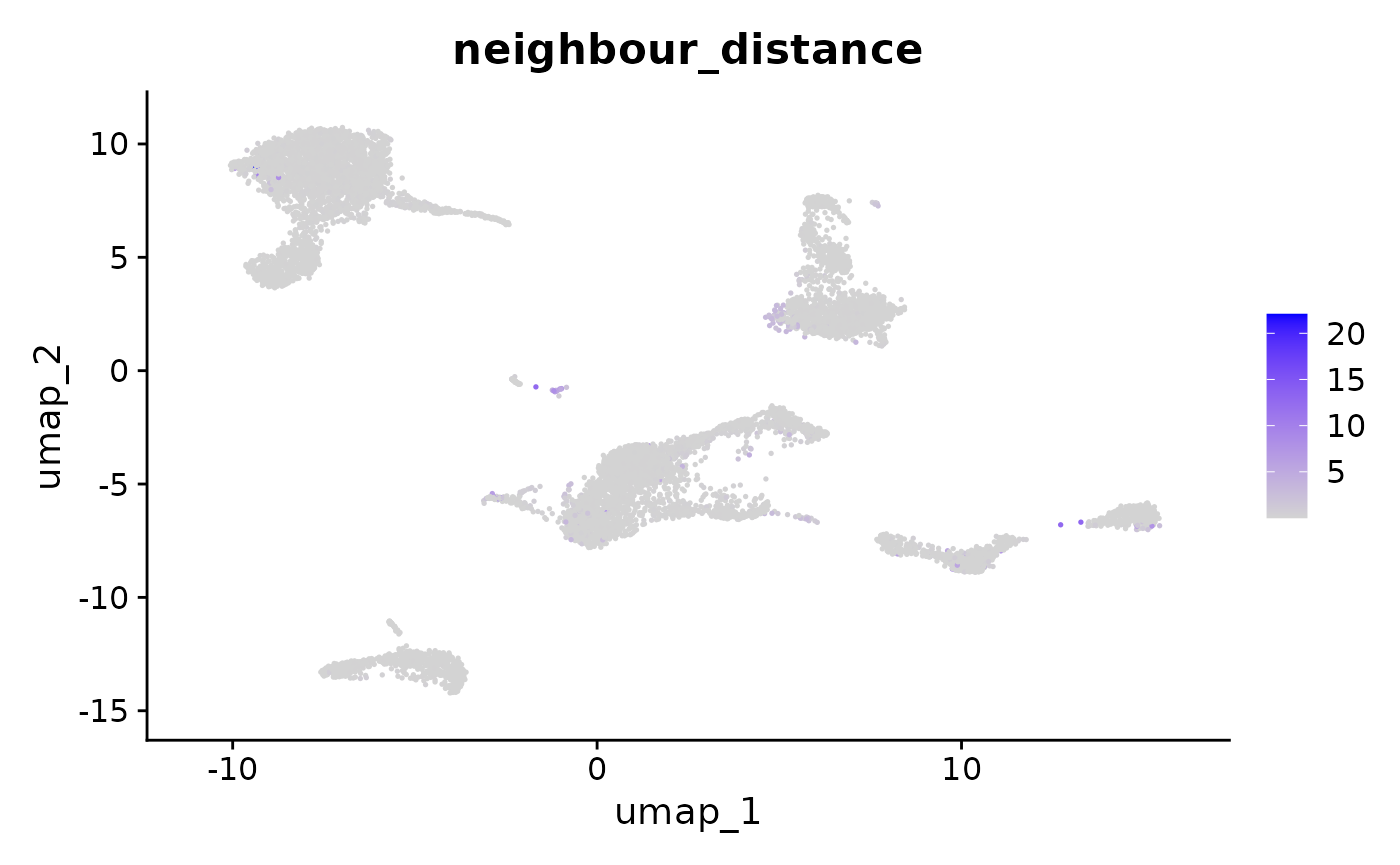
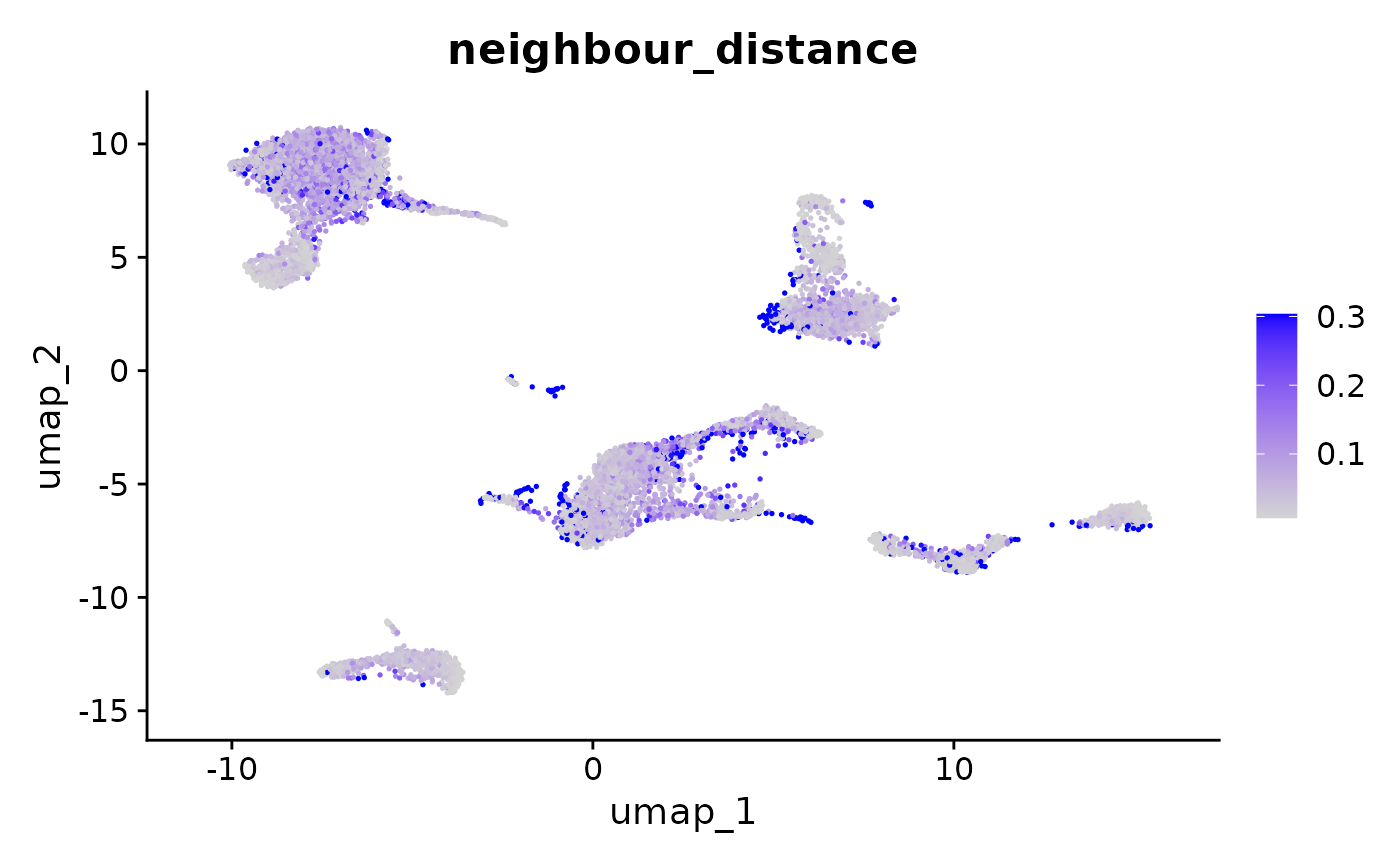
Deploying to gh-pages from @ LachlanD/SCneighbours2@b5b6f24c79d0f0ecf13e13d5ee4276910fcef369 🚀

diff --git a/articles/Tutorial.html b/articles/Tutorial.html
@@ -127,42 +127,7 @@ reduction.</p>
 <span><span class="co">#&gt; Finding variable features for layer counts.pbmc3k</span></span>
 <span><span class="va">seu</span> <span class="op">&lt;-</span> <span class="fu"><a href="https://satijalab.org/seurat/reference/ScaleData.html" class="external-link">ScaleData</a></span><span class="op">(</span><span class="va">seu</span><span class="op">)</span></span>
 <span><span class="co">#&gt; Centering and scaling data matrix</span></span>
-<span><span class="va">seu</span> <span class="op">&lt;-</span> <span class="fu"><a href="https://satijalab.org/seurat/reference/RunPCA.html" class="external-link">RunPCA</a></span><span class="op">(</span><span class="va">seu</span><span class="op">)</span></span>
-<span><span class="co">#&gt; PC_ 1 </span></span>
-<span><span class="co">#&gt; Positive:  FCER1G, TYROBP, FTL, TIMP1, TYMP, C15orf48, LGALS3, ANXA5, SOD2, LGALS1 </span></span>
-<span><span class="co">#&gt;     NPC2, PSAP, SPI1, PLAUR, CST3, S100A11, ANXA2, CD63, IL8, FTH1 </span></span>
-<span><span class="co">#&gt;     CTSB, KYNU, CD14, S100A8, SAT1, S100A10, GPX1, HLA-DRA, CFP, S100A6 </span></span>
-<span><span class="co">#&gt; Negative:  LTB, GIMAP7, CCR7, IL32, CD2, SELL, TSC22D3, TRAT1, GIMAP5, STK17A </span></span>
-<span><span class="co">#&gt;     CD247, ITM2A, CD69, CD27, CCL5, GIMAP4, C12orf57, S1PR4, CTSW, ISG20 </span></span>
-<span><span class="co">#&gt;     PASK, SNHG8, ACAP1, PPA1, CD8B, BIRC3, CREM, NKG7, AQP3, CD8A </span></span>
-<span><span class="co">#&gt; PC_ 2 </span></span>
-<span><span class="co">#&gt; Positive:  FTH1, C15orf48, IL8, CREM, LMNA, GPR183, CCR7, PLA2G7, CCL2, MARCKSL1 </span></span>
-<span><span class="co">#&gt;     CTSL, CXCL3, PHLDA1, THBS1, IER3, KYNU, CYP1B1, MGST1, ANXA1, TXN </span></span>
-<span><span class="co">#&gt;     CXCL2, BIRC3, SOD2, HSPA5, PPIF, INSIG1, ANXA5, CD63, SERPINB2, EIF5 </span></span>
-<span><span class="co">#&gt; Negative:  FOS, LY6E, IFITM2, ITGB2, DUSP1, LGALS2, HLA-DRB5, PYCARD, AIF1, LST1 </span></span>
-<span><span class="co">#&gt;     CDA, MT2A, FAM26F, IFITM3, CEBPD, IFI6, CTSS, COTL1, S100A4, LINC00936 </span></span>
-<span><span class="co">#&gt;     PLAC8, TNFSF10, TNFSF13B, LYZ, CST3, SERPINA1, CFD, MS4A6A, JUN, ISG15 </span></span>
-<span><span class="co">#&gt; PC_ 3 </span></span>
-<span><span class="co">#&gt; Positive:  HLA-DQA1, HLA-DQB1, CD79A, HLA-DPA1, CD74, HLA-DRA, HLA-DRB1, HLA-DPB1, MS4A1, CD83 </span></span>
-<span><span class="co">#&gt;     HLA-DMA, HERPUD1, MIR155HG, SYNGR2, IRF8, CD79B, TCL1A, HLA-DMB, REL, HLA-DQA2 </span></span>
-<span><span class="co">#&gt;     LINC00926, BLNK, SPIB, HVCN1, HSP90AB1, HLA-DRB5, NME1, FABP5, ID3, EBI3 </span></span>
-<span><span class="co">#&gt; Negative:  NKG7, CCL5, GZMA, CTSW, GNLY, PRF1, IL32, FGFBP2, ANXA1, GIMAP7 </span></span>
-<span><span class="co">#&gt;     GZMH, TMSB4X, GZMB, CD247, S100A4, CD2, S100A6, KLRD1, CST7, SPON2 </span></span>
-<span><span class="co">#&gt;     CLIC3, GIMAP4, GIMAP5, HOPX, S100A8, XCL2, KLRG1, PRSS23, CD8A, S100A9 </span></span>
-<span><span class="co">#&gt; PC_ 4 </span></span>
-<span><span class="co">#&gt; Positive:  LTB, LGALS2, S100A9, S100A8, FOS, SELL, RBP7, CDA, AIF1, FCN1 </span></span>
-<span><span class="co">#&gt;     FOLR3, MS4A6A, LINC00936, LYZ, TSC22D3, TCL1A, CD79A, LST1, LINC00926, CD27 </span></span>
-<span><span class="co">#&gt;     PASK, MAL, DUSP1, HLA-DRB5, C1orf162, NCF1, FPR1, MS4A1, MNDA, CD79B </span></span>
-<span><span class="co">#&gt; Negative:  GZMB, NKG7, CST7, GNLY, FGFBP2, PRF1, GZMA, GZMH, CCL5, CTSW </span></span>
-<span><span class="co">#&gt;     KLRD1, CLIC3, SPON2, APOBEC3G, HOPX, CCL4, XCL2, PRSS23, RAMP1, SRGN </span></span>
-<span><span class="co">#&gt;     C12orf75, CD247, TTC38, KLRC1, XCL1, IGFBP7, TNFRSF18, AKR1C3, ID2, CTSC </span></span>
-<span><span class="co">#&gt; PC_ 5 </span></span>
-<span><span class="co">#&gt; Positive:  VMO1, MS4A4A, MS4A7, TNFSF10, CXCL10, TMSB4X, FCGR3A, PPM1N, HN1, WARS </span></span>
-<span><span class="co">#&gt;     IFITM3, GBP5, GBP1, TNFSF13B, CXCL16, SMPDL3A, OAS1, ATP1B3, FAM26F, FGL2 </span></span>
-<span><span class="co">#&gt;     CREM, HSPB1, C3AR1, IFIT3, ADA, GBP4, CD86, CDKN1C, SLAMF7, FTH1 </span></span>
-<span><span class="co">#&gt; Negative:  CD79A, TCL1A, MS4A1, CD79B, CD74, LINC00926, S100A8, NKG7, HLA-DQA2, HLA-DQA1 </span></span>
-<span><span class="co">#&gt;     HLA-DRB5, FOS, HLA-DQB1, CTSW, HLA-DRA, S100A9, RNASE6, HLA-DPB1, GZMA, CAPG </span></span>
-<span><span class="co">#&gt;     PRF1, FGFBP2, GZMB, HLA-DMA, FCRLA, TSPAN13, GNLY, HLA-DMB, CST7, HLA-DRB1</span></span>
+<span><span class="va">seu</span> <span class="op">&lt;-</span> <span class="fu"><a href="https://satijalab.org/seurat/reference/RunPCA.html" class="external-link">RunPCA</a></span><span class="op">(</span><span class="va">seu</span>, verbose <span class="op">=</span> <span class="cn">F</span><span class="op">)</span></span>
 <span></span>
 <span><span class="va">seu</span> <span class="op">&lt;-</span> <span class="fu"><a href="https://satijalab.org/seurat/reference/FindNeighbors.html" class="external-link">FindNeighbors</a></span><span class="op">(</span><span class="va">seu</span>, dims <span class="op">=</span> <span class="fl">1</span><span class="op">:</span><span class="fl">30</span>, reduction <span class="op">=</span> <span class="st">"pca"</span><span class="op">)</span></span>
 <span><span class="co">#&gt; Computing nearest neighbor graph</span></span>
@@ -179,25 +144,10 @@ reduction.</p>
 <span><span class="co">#&gt; Elapsed time: 1 seconds</span></span>
 <span></span>
 <span></span>
-<span><span class="va">seu</span> <span class="op">&lt;-</span> <span class="fu"><a href="https://satijalab.org/seurat/reference/RunUMAP.html" class="external-link">RunUMAP</a></span><span class="op">(</span><span class="va">seu</span>, dims <span class="op">=</span> <span class="fl">1</span><span class="op">:</span><span class="fl">30</span>, reduction <span class="op">=</span> <span class="st">"pca"</span><span class="op">)</span></span>
+<span><span class="va">seu</span> <span class="op">&lt;-</span> <span class="fu"><a href="https://satijalab.org/seurat/reference/RunUMAP.html" class="external-link">RunUMAP</a></span><span class="op">(</span><span class="va">seu</span>, dims <span class="op">=</span> <span class="fl">1</span><span class="op">:</span><span class="fl">30</span>, reduction <span class="op">=</span> <span class="st">"pca"</span>, verbose <span class="op">=</span> <span class="cn">F</span><span class="op">)</span></span>
 <span><span class="co">#&gt; Warning: The default method for RunUMAP has changed from calling Python UMAP via reticulate to the R-native UWOT using the cosine metric</span></span>
 <span><span class="co">#&gt; To use Python UMAP via reticulate, set umap.method to 'umap-learn' and metric to 'correlation'</span></span>
-<span><span class="co">#&gt; This message will be shown once per session</span></span>
-<span><span class="co">#&gt; 03:07:23 UMAP embedding parameters a = 0.9922 b = 1.112</span></span>
-<span><span class="co">#&gt; 03:07:23 Read 9248 rows and found 30 numeric columns</span></span>
-<span><span class="co">#&gt; 03:07:23 Using Annoy for neighbor search, n_neighbors = 30</span></span>
-<span><span class="co">#&gt; 03:07:23 Building Annoy index with metric = cosine, n_trees = 50</span></span>
-<span><span class="co">#&gt; 0%   10   20   30   40   50   60   70   80   90   100%</span></span>
-<span><span class="co">#&gt; [----|----|----|----|----|----|----|----|----|----|</span></span>
-<span><span class="co">#&gt; **************************************************|</span></span>
-<span><span class="co">#&gt; 03:07:24 Writing NN index file to temp file /tmp/RtmpySuLRy/file1d057fd9977a</span></span>
-<span><span class="co">#&gt; 03:07:24 Searching Annoy index using 1 thread, search_k = 3000</span></span>
-<span><span class="co">#&gt; 03:07:26 Annoy recall = 100%</span></span>
-<span><span class="co">#&gt; 03:07:27 Commencing smooth kNN distance calibration using 1 thread with target n_neighbors = 30</span></span>
-<span><span class="co">#&gt; 03:07:28 Initializing from normalized Laplacian + noise (using RSpectra)</span></span>
-<span><span class="co">#&gt; 03:07:28 Commencing optimization for 500 epochs, with 400930 positive edges</span></span>
-<span><span class="co">#&gt; 03:07:28 Using rng type: pcg</span></span>
-<span><span class="co">#&gt; 03:07:37 Optimization finished</span></span></code></pre></div>
+<span><span class="co">#&gt; This message will be shown once per session</span></span></code></pre></div>
 <div class="sourceCode" id="cb4"><pre class="downlit sourceCode r">
 <code class="sourceCode R"><span><span class="fu"><a href="https://satijalab.org/seurat/reference/DimPlot.html" class="external-link">DimPlot</a></span><span class="op">(</span><span class="va">seu</span>, group.by <span class="op">=</span> <span class="fu"><a href="https://rdrr.io/r/base/c.html" class="external-link">c</a></span><span class="op">(</span><span class="st">"orig.ident"</span>, <span class="st">"seurat_clusters"</span><span class="op">)</span><span class="op">)</span></span></code></pre></div>
 <p><img src="Tutorial_files/figure-html/unnamed-chunk-4-1.png" class="r-plt" alt="" width="700"></p>
@@ -237,7 +187,7 @@ if there are any problems with your UMAP or there are some problamtic
 cells in your dataset.</p>
 <div class="sourceCode" id="cb10"><pre class="downlit sourceCode r">
 <code class="sourceCode R"><span><span class="va">seu</span> <span class="op">&lt;-</span> <span class="fu"><a href="../reference/calculate_neighbour_distance_for_all_cells.html">calculate_neighbour_distance_for_all_cells</a></span><span class="op">(</span><span class="va">seu</span>, reduction <span class="op">=</span> <span class="st">'umap'</span>, colname <span class="op">=</span> <span class="st">'neighbour_distance'</span><span class="op">)</span></span>
-<span><span class="fu"><a href="https://satijalab.org/seurat/reference/FeaturePlot.html" class="external-link">FeaturePlot</a></span><span class="op">(</span><span class="va">seu</span>, <span class="st">'neighbour_distance'</span><span class="op">)</span></span></code></pre></div>
+<span><span class="fu"><a href="https://satijalab.org/seurat/reference/FeaturePlot.html" class="external-link">FeaturePlot</a></span><span class="op">(</span><span class="va">seu</span>, <span class="st">'neighbour_distance'</span>, min.cutoff <span class="op">=</span> <span class="st">'q5'</span>, max.cutoff <span class="op">=</span> <span class="st">'q95'</span><span class="op">)</span></span></code></pre></div>
 <p><img src="Tutorial_files/figure-html/unnamed-chunk-8-1.png" class="r-plt" alt="" width="700"></p>
 </div>
   </main>

diff --git a/articles/Tutorial.md b/articles/Tutorial.md
@@ -68,42 +68,7 @@ seu <- FindVariableFeatures(seu)
 #> Finding variable features for layer counts.pbmc3k
 seu <- ScaleData(seu)
 #> Centering and scaling data matrix
-seu <- RunPCA(seu)
-#> PC_ 1 
-#> Positive:  FCER1G, TYROBP, FTL, TIMP1, TYMP, C15orf48, LGALS3, ANXA5, SOD2, LGALS1 
-#>     NPC2, PSAP, SPI1, PLAUR, CST3, S100A11, ANXA2, CD63, IL8, FTH1 
-#>     CTSB, KYNU, CD14, S100A8, SAT1, S100A10, GPX1, HLA-DRA, CFP, S100A6 
-#> Negative:  LTB, GIMAP7, CCR7, IL32, CD2, SELL, TSC22D3, TRAT1, GIMAP5, STK17A 
-#>     CD247, ITM2A, CD69, CD27, CCL5, GIMAP4, C12orf57, S1PR4, CTSW, ISG20 
-#>     PASK, SNHG8, ACAP1, PPA1, CD8B, BIRC3, CREM, NKG7, AQP3, CD8A 
-#> PC_ 2 
-#> Positive:  FTH1, C15orf48, IL8, CREM, LMNA, GPR183, CCR7, PLA2G7, CCL2, MARCKSL1 
-#>     CTSL, CXCL3, PHLDA1, THBS1, IER3, KYNU, CYP1B1, MGST1, ANXA1, TXN 
-#>     CXCL2, BIRC3, SOD2, HSPA5, PPIF, INSIG1, ANXA5, CD63, SERPINB2, EIF5 
-#> Negative:  FOS, LY6E, IFITM2, ITGB2, DUSP1, LGALS2, HLA-DRB5, PYCARD, AIF1, LST1 
-#>     CDA, MT2A, FAM26F, IFITM3, CEBPD, IFI6, CTSS, COTL1, S100A4, LINC00936 
-#>     PLAC8, TNFSF10, TNFSF13B, LYZ, CST3, SERPINA1, CFD, MS4A6A, JUN, ISG15 
-#> PC_ 3 
-#> Positive:  HLA-DQA1, HLA-DQB1, CD79A, HLA-DPA1, CD74, HLA-DRA, HLA-DRB1, HLA-DPB1, MS4A1, CD83 
-#>     HLA-DMA, HERPUD1, MIR155HG, SYNGR2, IRF8, CD79B, TCL1A, HLA-DMB, REL, HLA-DQA2 
-#>     LINC00926, BLNK, SPIB, HVCN1, HSP90AB1, HLA-DRB5, NME1, FABP5, ID3, EBI3 
-#> Negative:  NKG7, CCL5, GZMA, CTSW, GNLY, PRF1, IL32, FGFBP2, ANXA1, GIMAP7 
-#>     GZMH, TMSB4X, GZMB, CD247, S100A4, CD2, S100A6, KLRD1, CST7, SPON2 
-#>     CLIC3, GIMAP4, GIMAP5, HOPX, S100A8, XCL2, KLRG1, PRSS23, CD8A, S100A9 
-#> PC_ 4 
-#> Positive:  LTB, LGALS2, S100A9, S100A8, FOS, SELL, RBP7, CDA, AIF1, FCN1 
-#>     FOLR3, MS4A6A, LINC00936, LYZ, TSC22D3, TCL1A, CD79A, LST1, LINC00926, CD27 
-#>     PASK, MAL, DUSP1, HLA-DRB5, C1orf162, NCF1, FPR1, MS4A1, MNDA, CD79B 
-#> Negative:  GZMB, NKG7, CST7, GNLY, FGFBP2, PRF1, GZMA, GZMH, CCL5, CTSW 
-#>     KLRD1, CLIC3, SPON2, APOBEC3G, HOPX, CCL4, XCL2, PRSS23, RAMP1, SRGN 
-#>     C12orf75, CD247, TTC38, KLRC1, XCL1, IGFBP7, TNFRSF18, AKR1C3, ID2, CTSC 
-#> PC_ 5 
-#> Positive:  VMO1, MS4A4A, MS4A7, TNFSF10, CXCL10, TMSB4X, FCGR3A, PPM1N, HN1, WARS 
-#>     IFITM3, GBP5, GBP1, TNFSF13B, CXCL16, SMPDL3A, OAS1, ATP1B3, FAM26F, FGL2 
-#>     CREM, HSPB1, C3AR1, IFIT3, ADA, GBP4, CD86, CDKN1C, SLAMF7, FTH1 
-#> Negative:  CD79A, TCL1A, MS4A1, CD79B, CD74, LINC00926, S100A8, NKG7, HLA-DQA2, HLA-DQA1 
-#>     HLA-DRB5, FOS, HLA-DQB1, CTSW, HLA-DRA, S100A9, RNASE6, HLA-DPB1, GZMA, CAPG 
-#>     PRF1, FGFBP2, GZMB, HLA-DMA, FCRLA, TSPAN13, GNLY, HLA-DMB, CST7, HLA-DRB1
+seu <- RunPCA(seu, verbose = F)
 
 seu <- FindNeighbors(seu, dims = 1:30, reduction = "pca")
 #> Computing nearest neighbor graph
@@ -120,25 +85,10 @@ seu <- FindClusters(seu, resolution = 0.5)
 #> Elapsed time: 1 seconds
 
 
-seu <- RunUMAP(seu, dims = 1:30, reduction = "pca")
+seu <- RunUMAP(seu, dims = 1:30, reduction = "pca", verbose = F)
 #> Warning: The default method for RunUMAP has changed from calling Python UMAP via reticulate to the R-native UWOT using the cosine metric
 #> To use Python UMAP via reticulate, set umap.method to 'umap-learn' and metric to 'correlation'
 #> This message will be shown once per session
-#> 03:07:23 UMAP embedding parameters a = 0.9922 b = 1.112
-#> 03:07:23 Read 9248 rows and found 30 numeric columns
-#> 03:07:23 Using Annoy for neighbor search, n_neighbors = 30
-#> 03:07:23 Building Annoy index with metric = cosine, n_trees = 50
-#> 0%   10   20   30   40   50   60   70   80   90   100%
-#> [----|----|----|----|----|----|----|----|----|----|
-#> **************************************************|
-#> 03:07:24 Writing NN index file to temp file /tmp/RtmpySuLRy/file1d057fd9977a
-#> 03:07:24 Searching Annoy index using 1 thread, search_k = 3000
-#> 03:07:26 Annoy recall = 100%
-#> 03:07:27 Commencing smooth kNN distance calibration using 1 thread with target n_neighbors = 30
-#> 03:07:28 Initializing from normalized Laplacian + noise (using RSpectra)
-#> 03:07:28 Commencing optimization for 500 epochs, with 400930 positive edges
-#> 03:07:28 Using rng type: pcg
-#> 03:07:37 Optimization finished
 ```
 
 ``` r
@@ -203,7 +153,7 @@ cells in your dataset.
 
 ``` r
 seu <- calculate_neighbour_distance_for_all_cells(seu, reduction = 'umap', colname = 'neighbour_distance')
-FeaturePlot(seu, 'neighbour_distance')
+FeaturePlot(seu, 'neighbour_distance', min.cutoff = 'q5', max.cutoff = 'q95')
 ```
 
 ![](Tutorial_files/figure-html/unnamed-chunk-8-1.png)
